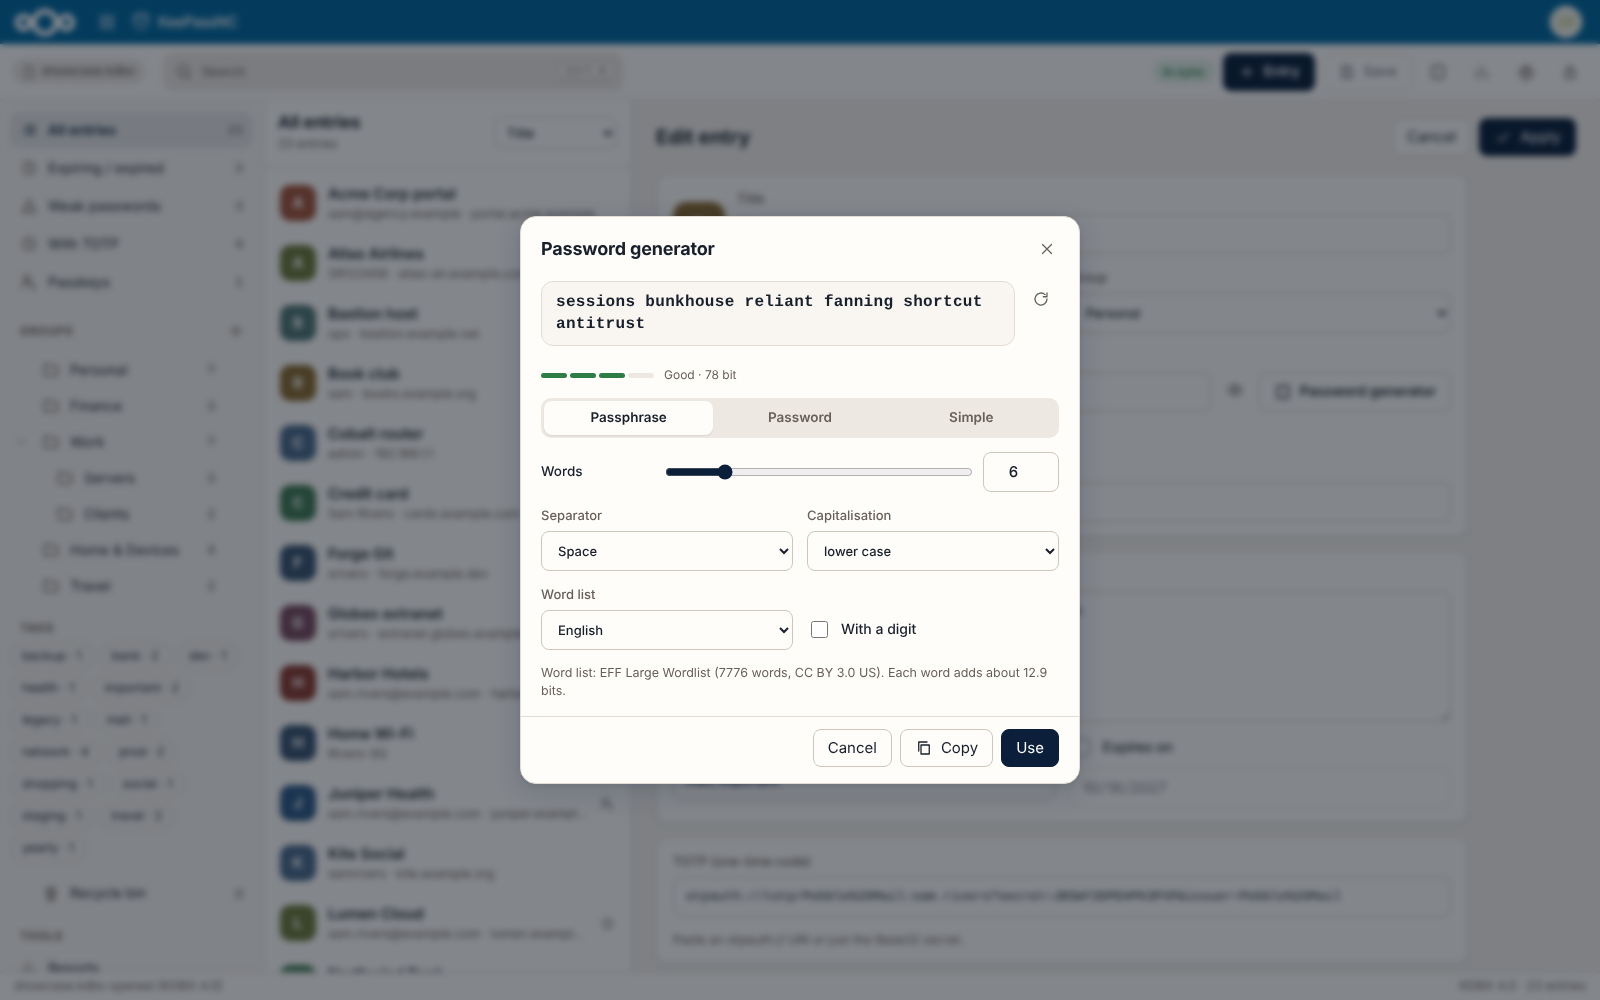
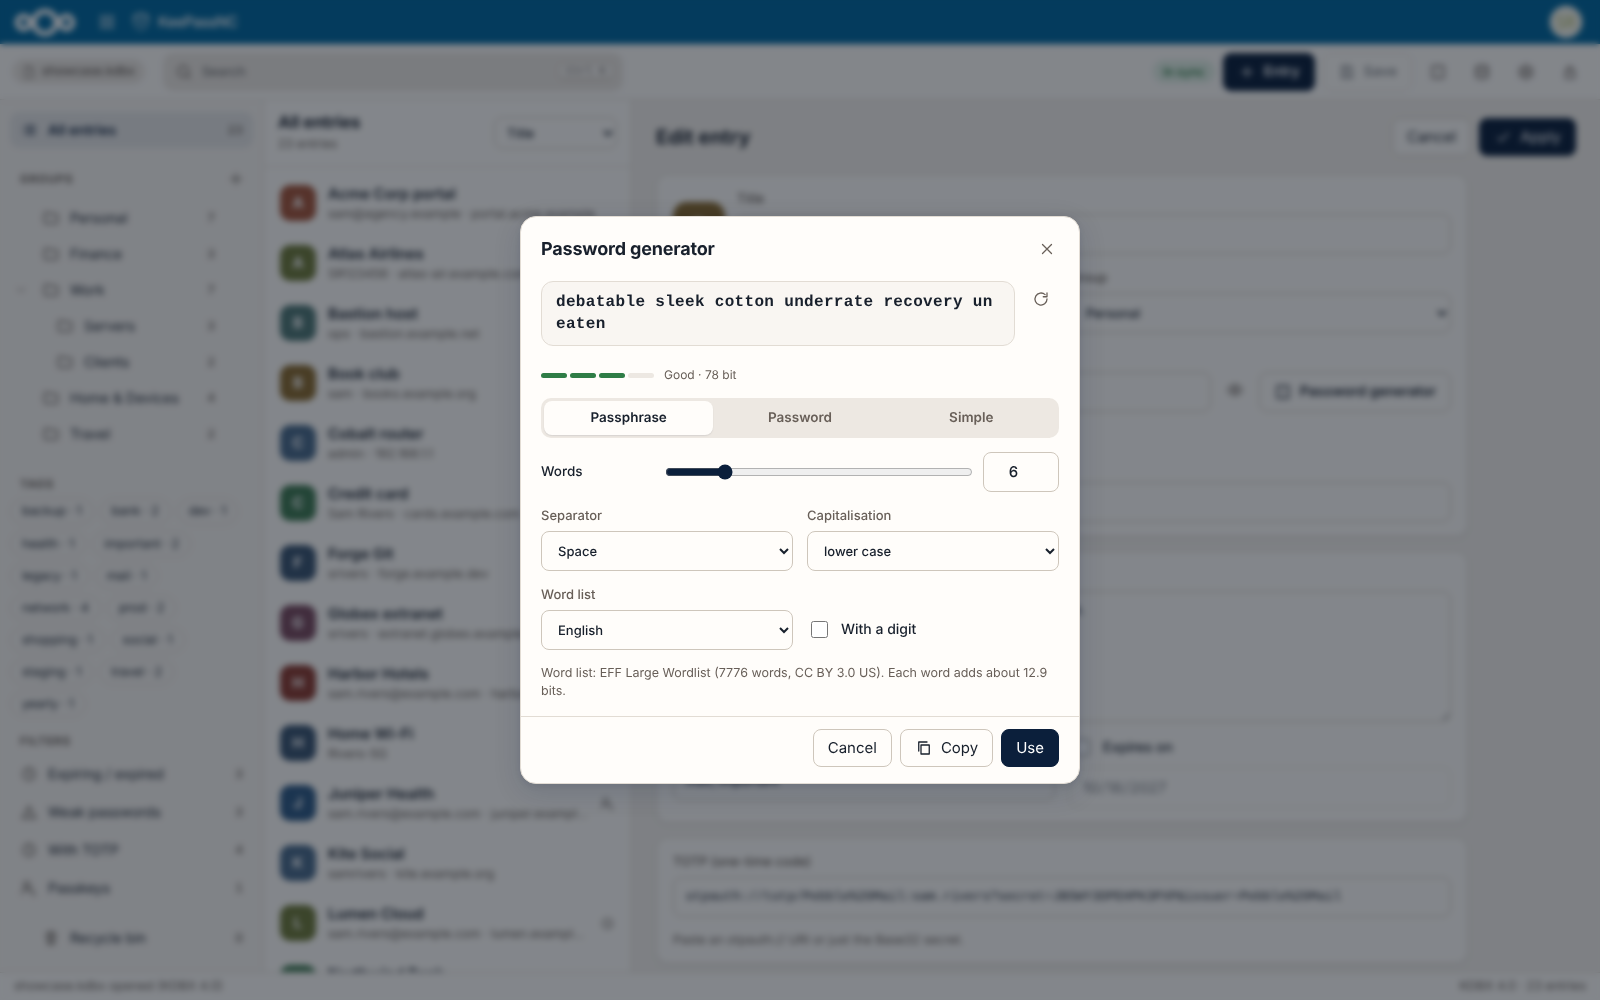
Release 0.11.0 (#58)
Groups first in the sidebar, "Reports" becomes "Database", and a fix for Nextcloud behind a reverse proxy that doesn't pass on HTTPS (#50). README screenshots retaken against Nextcloud 35.0.2.

Claude-Session: https://claude.ai/code/session_01SGD3uBd9wZc26wVpH9WxZA

diff --git a/nextcloud-app/keepassnc/CHANGELOG.md b/nextcloud-app/keepassnc/CHANGELOG.md
@@ -2,7 +2,7 @@
 
 Format based on [Keep a Changelog](https://keepachangelog.com/en/1.1.0/).
 
-## [Unreleased]
+## [0.11.0] - 2026-10-18
 ### Changed
 - The sidebar puts your groups first now. "Expiring", "Weak passwords", TOTP and passkeys moved below them, under a new "Filters" heading.
 - "Reports" is now called "Database": everything about the open file lives there, from password health and statistics to the database settings, which got their own "Settings" tab. Things that only concern the app on this device stay in the regular settings.
